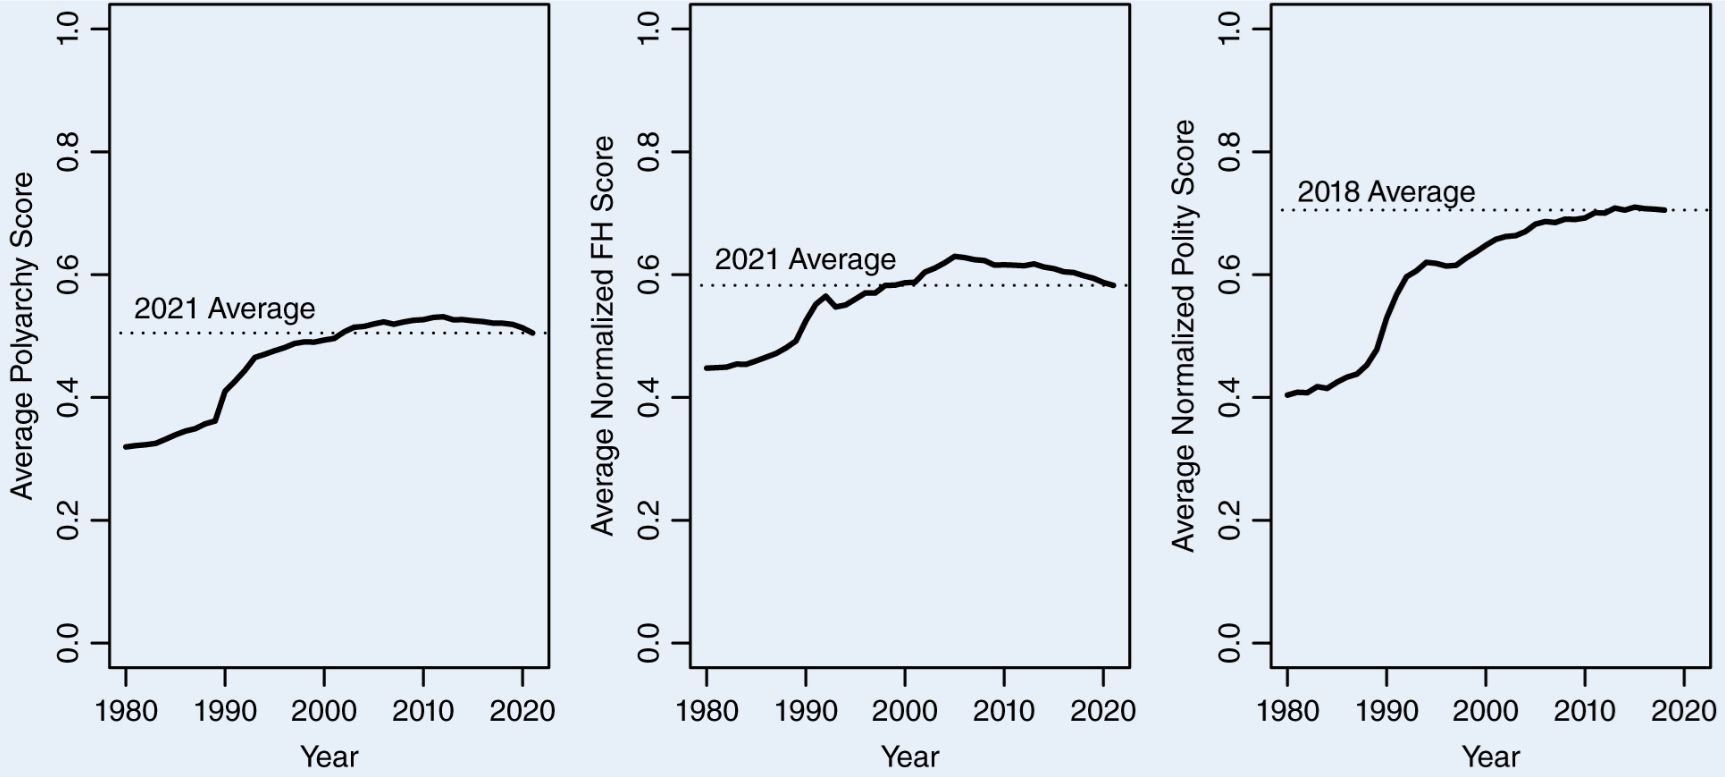
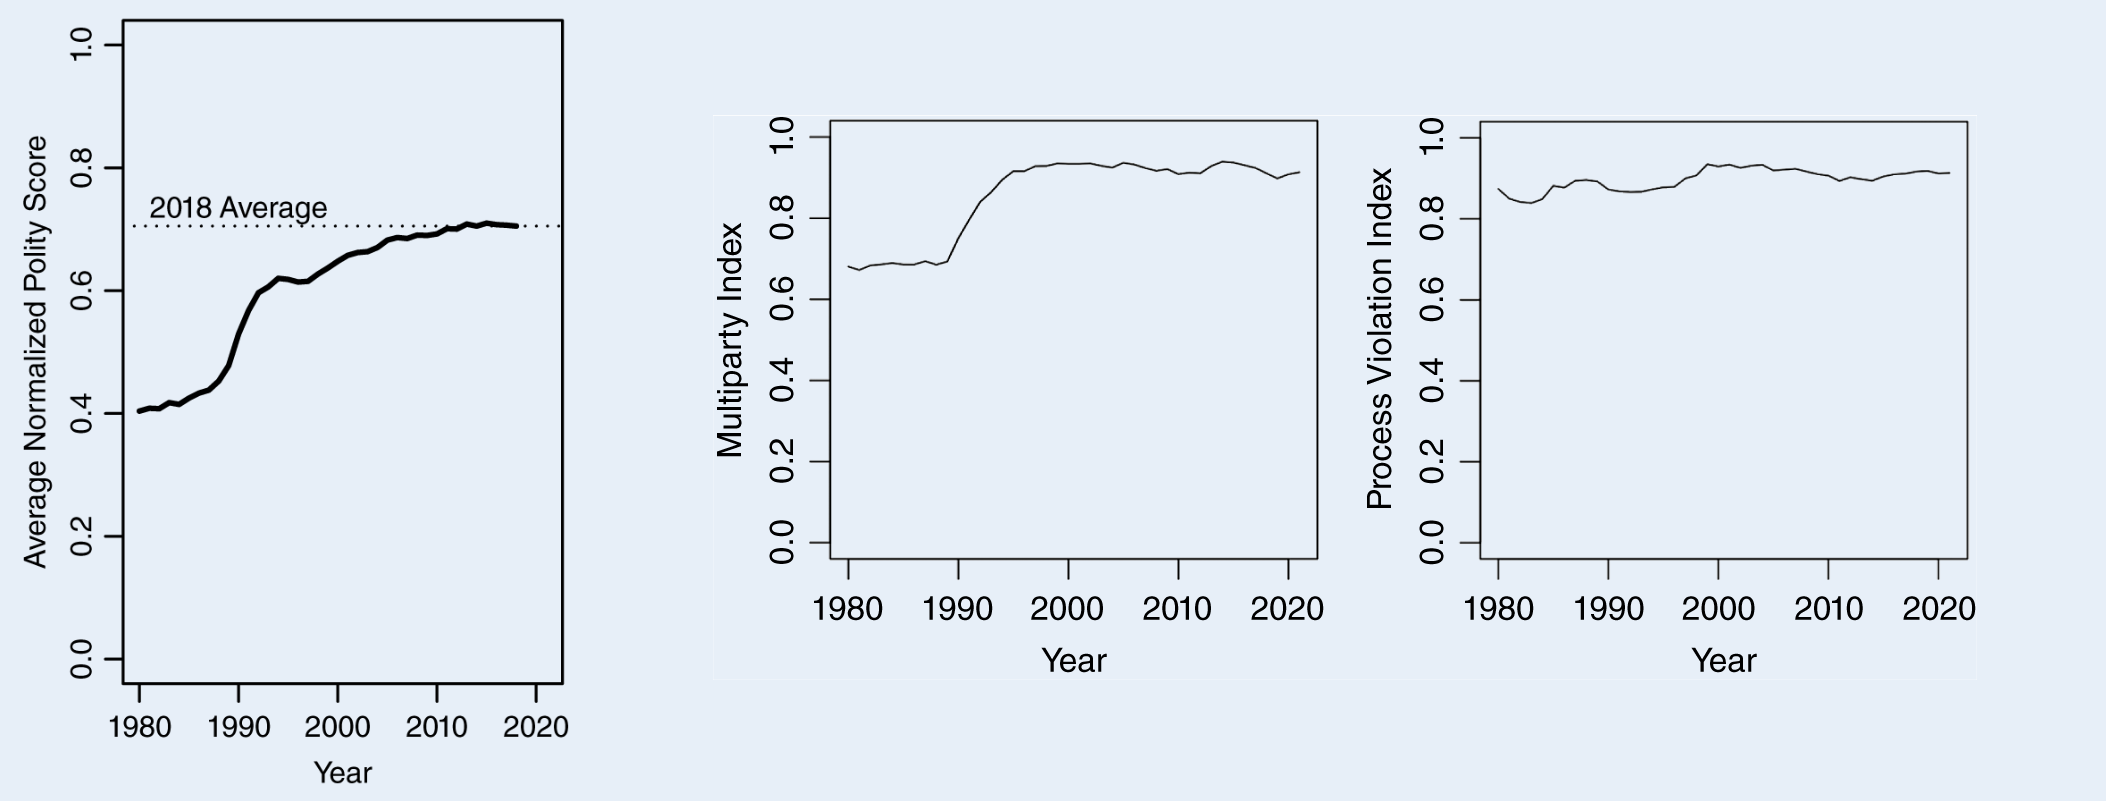
Built site for gh-pages

diff --git a/slides/videos-stata/bar-hist-stata.html b/slides/videos-stata/bar-hist-stata.html
@@ -124,7 +124,10 @@ ul.task-list li input[type="checkbox"] {
   <li><a href="#step-4-select-the-top-portion-of-the-do-file-and-click-execute-do" id="toc-step-4-select-the-top-portion-of-the-do-file-and-click-execute-do" class="nav-link" data-scroll-target="#step-4-select-the-top-portion-of-the-do-file-and-click-execute-do">Step 4: Select the top portion of the do file and click “execute (do)”</a></li>
   <li><a href="#step-5-check-if-it-has-worked-and-save-your-do-file" id="toc-step-5-check-if-it-has-worked-and-save-your-do-file" class="nav-link" data-scroll-target="#step-5-check-if-it-has-worked-and-save-your-do-file">Step 5: Check if it has worked and save your do-file</a></li>
   <li><a href="#step-6-read-through-the-do-file-comments-and-execute-the-commands" id="toc-step-6-read-through-the-do-file-comments-and-execute-the-commands" class="nav-link" data-scroll-target="#step-6-read-through-the-do-file-comments-and-execute-the-commands">Step 6: Read through the do-file comments and execute the commands</a></li>
-  <li><a href="#your-turn-find-additional-variables-to-summarise" id="toc-your-turn-find-additional-variables-to-summarise" class="nav-link" data-scroll-target="#your-turn-find-additional-variables-to-summarise">Your turn: Find additional variables to summarise</a></li>
+  <li><a href="#your-turn-find-additional-variables-to-visualise" id="toc-your-turn-find-additional-variables-to-visualise" class="nav-link" data-scroll-target="#your-turn-find-additional-variables-to-visualise">Your turn: Find additional variables to visualise</a></li>
+  <li><a href="#got-tired-of-the-bes-theres-more" id="toc-got-tired-of-the-bes-theres-more" class="nav-link" data-scroll-target="#got-tired-of-the-bes-theres-more">Got tired of the BES? There’s more!</a></li>
+  <li><a href="#still-bored-theres-even-more" id="toc-still-bored-theres-even-more" class="nav-link" data-scroll-target="#still-bored-theres-even-more">Still bored? There’s even more!</a></li>
+  <li><a href="#fancy-a-challenge" id="toc-fancy-a-challenge" class="nav-link" data-scroll-target="#fancy-a-challenge">Fancy a challenge?</a></li>
   <li><a href="#recap" id="toc-recap" class="nav-link" data-scroll-target="#recap">Recap</a></li>
   </ul></li>
   </ul>
@@ -141,29 +144,35 @@ ul.task-list li input[type="checkbox"] {
 <hr>
 <section id="youll-learn-to" class="level2">
 <h2 class="anchored" data-anchor-id="youll-learn-to">You’ll learn to</h2>
+<div class="nonincremental">
 <ul>
 <li>Create <strong>bar charts</strong> and <strong>histograms</strong> in Stata and use them to describe distributions.</li>
 </ul>
+</div>
 <hr>
 </section>
 <section id="step-1-download-the-british-election-study-dataset-from-our-shared-folder" class="level2">
 <h2 class="anchored" data-anchor-id="step-1-download-the-british-election-study-dataset-from-our-shared-folder">Step 1: Download the British Election Study dataset from our shared folder</h2>
+<div class="nonincremental">
 <ul>
 <li>Access our <a href="https://emckclac-my.sharepoint.com/:f:/g/personal/k2588471_kcl_ac_uk/IgCj43BodyKITIiLw6bolCpYAU89x3IK0A2GlVY05aN29UE">Shared Project Folder</a></li>
 <li>Click on <code>data-raw</code></li>
 <li>Download <code>British_Election_Study_2024.dta</code></li>
 <li>Save it into the <code>data-raw</code> folder on your computer</li>
 </ul>
+</div>
 <hr>
 </section>
 <section id="step-2-download-the-companion-do-file-for-this-activity" class="level2">
 <h2 class="anchored" data-anchor-id="step-2-download-the-companion-do-file-for-this-activity">Step 2: Download the companion do-file for this activity</h2>
+<div class="nonincremental">
 <ul>
 <li>Access our <a href="https://emckclac-my.sharepoint.com/:f:/g/personal/k2588471_kcl_ac_uk/IgCj43BodyKITIiLw6bolCpYAU89x3IK0A2GlVY05aN29UE">Shared Project Folder</a></li>
 <li>Click on <code>do</code></li>
 <li>Download <code>visualise-bes.do</code></li>
 <li>Save it into the <code>do</code> folder on your computer</li>
 </ul>
+</div>
 <hr>
 </section>
 <section id="step-3-insert-the-path-to-your-folder-on-your-computer" class="level2">
@@ -221,14 +230,61 @@ ul.task-list li input[type="checkbox"] {
 </div>
 <hr>
 </section>
-<section id="your-turn-find-additional-variables-to-summarise" class="level2">
-<h2 class="anchored" data-anchor-id="your-turn-find-additional-variables-to-summarise">Your turn: Find additional variables to summarise</h2>
+<section id="your-turn-find-additional-variables-to-visualise" class="level2">
+<h2 class="anchored" data-anchor-id="your-turn-find-additional-variables-to-visualise">Your turn: Find additional variables to visualise</h2>
 <div class="nonincremental">
 <ul>
 <li><code>hist</code> gives us histograms.</li>
 <li><code>graph hbar (count), over()</code> gives us the frequency bar charts.</li>
 <li>Explore the BES data and codebook to look for additional variables to visualise.</li>
 </ul>
+</div>
+<hr>
+</section>
+<section id="got-tired-of-the-bes-theres-more" class="level2">
+<h2 class="anchored" data-anchor-id="got-tired-of-the-bes-theres-more">Got tired of the BES? There’s more!</h2>
+<div class="nonincremental">
+<ul>
+<li><code>histogram-gdp.do</code> has the code for this histogram.</li>
+<li>Be sure to download <code>Quality_of_Government_2026.dta</code> first.</li>
+<li>Explore the <strong>Quality of Government</strong> dataset using the codebook.</li>
+</ul>
+<div class="quarto-figure quarto-figure-center">
+<figure class="figure">
+<p><img src="../../assets/gdp_hist.jpg" class="img-fluid quarto-figure quarto-figure-center figure-img" style="width:67.0%" data-fig-cap=""></p>
+</figure>
+</div>
+</div>
+<hr>
+</section>
+<section id="still-bored-theres-even-more" class="level2">
+<h2 class="anchored" data-anchor-id="still-bored-theres-even-more">Still bored? There’s even more!</h2>
+<div class="nonincremental">
+<ul>
+<li><code>histogram-nss.do</code> has the code for this histogram.</li>
+<li>Be sure to download <code>National_Student_Survey_2025.dta</code> first.</li>
+<li>Explore the <strong>National Student Survey</strong> dataset using the codebook.</li>
+</ul>
+<div class="quarto-figure quarto-figure-center">
+<figure class="figure">
+<p><img src="../../assets/nss_hist.jpg" class="img-fluid quarto-figure quarto-figure-center figure-img" style="width:67.0%" data-fig-cap=""></p>
+</figure>
+</div>
+</div>
+<hr>
+</section>
+<section id="fancy-a-challenge" class="level2">
+<h2 class="anchored" data-anchor-id="fancy-a-challenge">Fancy a challenge?</h2>
+<div class="nonincremental">
+<ul>
+<li>This histogram was made using the <strong>Brexit</strong> dataset.</li>
+<li>Can you reproduce it?</li>
+</ul>
+<div class="quarto-figure quarto-figure-center">
+<figure class="figure">
+<p><img src="../../assets/brexit_hist.jpg" class="img-fluid quarto-figure quarto-figure-center figure-img" style="width:67.0%" data-fig-cap=""></p>
+</figure>
+</div>
 </div>
 <hr>
 </section>

diff --git a/slides/lectures/measurement-lecture.html b/slides/lectures/measurement-lecture.html
@@ -127,13 +127,14 @@ ul.task-list li input[type="checkbox"] {
   <li><a href="#varieties-of-democracy-v-dem" id="toc-varieties-of-democracy-v-dem" class="nav-link" data-scroll-target="#varieties-of-democracy-v-dem">Varieties of Democracy (V-DEM)</a></li>
   <li><a href="#the-v-dem-world-map" id="toc-the-v-dem-world-map" class="nav-link" data-scroll-target="#the-v-dem-world-map">The V-DEM world map</a></li>
   <li><a href="#is-democracy-backsliding-according-to-v-dem-yes" id="toc-is-democracy-backsliding-according-to-v-dem-yes" class="nav-link" data-scroll-target="#is-democracy-backsliding-according-to-v-dem-yes">Is democracy backsliding? According to V-DEM, yes!</a></li>
-  <li><a href="#is-democracy-backsliding-according-to-other-measurements-no" id="toc-is-democracy-backsliding-according-to-other-measurements-no" class="nav-link" data-scroll-target="#is-democracy-backsliding-according-to-other-measurements-no">Is democracy backsliding? According to other measurements, no!</a></li>
+  <li><a href="#is-democracy-backsliding-according-to-other-indicators-no" id="toc-is-democracy-backsliding-according-to-other-indicators-no" class="nav-link" data-scroll-target="#is-democracy-backsliding-according-to-other-indicators-no">Is democracy backsliding? According to other indicators, no!</a></li>
   <li><a href="#the-critique-little-meng-2024-on-v-dem" id="toc-the-critique-little-meng-2024-on-v-dem" class="nav-link" data-scroll-target="#the-critique-little-meng-2024-on-v-dem">The critique: Little &amp; Meng (2024) on V-Dem</a></li>
   <li><a href="#what-does-their-alternative-look-like" id="toc-what-does-their-alternative-look-like" class="nav-link" data-scroll-target="#what-does-their-alternative-look-like">What does their alternative look like?</a></li>
   <li><a href="#the-counter-critique-v-dems-side" id="toc-the-counter-critique-v-dems-side" class="nav-link" data-scroll-target="#the-counter-critique-v-dems-side">The counter-critique: V-DEM’s side</a></li>
   <li><a href="#group-activity-how-to-measure-democracy" id="toc-group-activity-how-to-measure-democracy" class="nav-link" data-scroll-target="#group-activity-how-to-measure-democracy">Group activity: How to measure democracy?</a></li>
   <li><a href="#guiding-questions-for-discussion" id="toc-guiding-questions-for-discussion" class="nav-link" data-scroll-target="#guiding-questions-for-discussion">Guiding questions for discussion</a></li>
   <li><a href="#share-your-thoughts" id="toc-share-your-thoughts" class="nav-link" data-scroll-target="#share-your-thoughts">Share your thoughts</a></li>
+  <li><a href="#dig-deeper" id="toc-dig-deeper" class="nav-link" data-scroll-target="#dig-deeper">Dig Deeper</a></li>
   <li><a href="#why-this-matters" id="toc-why-this-matters" class="nav-link" data-scroll-target="#why-this-matters">Why this matters</a></li>
   </ul>
 <div class="quarto-alternate-formats"><h2>Other Formats</h2><ul><li><a href="measurement-lecture-slides.html"><i class="bi bi-file-slides"></i>RevealJS</a></li></ul></div></nav>
@@ -272,8 +273,8 @@ ul.task-list li input[type="checkbox"] {
 <p><a href="https://www.v-dem.net/documents/60/V-dem-dr__2025_lowres.pdf">Source</a></p>
 <hr>
 </section>
-<section id="is-democracy-backsliding-according-to-other-measurements-no" class="level2">
-<h2 class="anchored" data-anchor-id="is-democracy-backsliding-according-to-other-measurements-no">Is democracy backsliding? According to other measurements, no!</h2>
+<section id="is-democracy-backsliding-according-to-other-indicators-no" class="level2">
+<h2 class="anchored" data-anchor-id="is-democracy-backsliding-according-to-other-indicators-no">Is democracy backsliding? According to other indicators, no!</h2>
 <div class="quarto-figure quarto-figure-center">
 <figure class="figure">
 <p><img src="../../assets/others-trend.png" class="img-fluid quarto-figure quarto-figure-center figure-img" style="width:80.0%" data-fig-cap=""></p>
@@ -338,6 +339,22 @@ ul.task-list li input[type="checkbox"] {
 <div class="quarto-figure quarto-figure-center">
 <figure class="figure">
 <p><img src="../../assets/mentimeter_qr_code_democracy.png" class="img-fluid quarto-figure quarto-figure-center figure-img" style="width:50.0%" data-fig-cap=""></p>
+</figure>
+</div>
+<hr>
+</section>
+<section id="dig-deeper" class="level2">
+<h2 class="anchored" data-anchor-id="dig-deeper">Dig Deeper</h2>
+<ul>
+<li><p><a href="https://www.ft.com/content/b474855e-66b0-4e6e-9b73-7e252bd88938">How steep is Trump’s democratic backsliding?</a></p>
+<ul>
+<li>Financial Times, 31 Jan 2026 (Access with your King’s email account).</li>
+</ul></li>
+<li><p><a href="https://docs.google.com/document/d/e/2PACX-1vTNz8J13MV_ZLQ8BT-AsRNTn4lADHidb3KRYpuQ7ZiA895SgDGwz2PaCi3KQeHpEdjcOMUl4bVs6qNn/pub">Methodology</a> reviewed by Anne Meng.</p></li>
+</ul>
+<div class="quarto-figure quarto-figure-center">
+<figure class="figure">
+<p><img src="../../assets/usa-backsliding.png" class="img-fluid quarto-figure quarto-figure-center figure-img" style="width:67.0%" data-fig-cap=""></p>
 </figure>
 </div>
 <hr>

diff --git a/slides/videos-stata/bar-hist-stata-slides.html b/slides/videos-stata/bar-hist-stata-slides.html
@@ -134,25 +134,25 @@
 <section id="youll-learn-to" class="slide level2">
 <h2>You’ll learn to</h2>
 <ul>
-<li class="fragment">Create <strong>bar charts</strong> and <strong>histograms</strong> in Stata and use them to describe distributions.</li>
+<li>Create <strong>bar charts</strong> and <strong>histograms</strong> in Stata and use them to describe distributions.</li>
 </ul>
 </section>
 <section id="step-1-download-the-british-election-study-dataset-from-our-shared-folder" class="slide level2">
 <h2>Step 1: Download the British Election Study dataset from our shared folder</h2>
 <ul>
-<li class="fragment">Access our <a href="https://emckclac-my.sharepoint.com/:f:/g/personal/k2588471_kcl_ac_uk/IgCj43BodyKITIiLw6bolCpYAU89x3IK0A2GlVY05aN29UE">Shared Project Folder</a></li>
-<li class="fragment">Click on <code>data-raw</code></li>
-<li class="fragment">Download <code>British_Election_Study_2024.dta</code></li>
-<li class="fragment">Save it into the <code>data-raw</code> folder on your computer</li>
+<li>Access our <a href="https://emckclac-my.sharepoint.com/:f:/g/personal/k2588471_kcl_ac_uk/IgCj43BodyKITIiLw6bolCpYAU89x3IK0A2GlVY05aN29UE">Shared Project Folder</a></li>
+<li>Click on <code>data-raw</code></li>
+<li>Download <code>British_Election_Study_2024.dta</code></li>
+<li>Save it into the <code>data-raw</code> folder on your computer</li>
 </ul>
 </section>
 <section id="step-2-download-the-companion-do-file-for-this-activity" class="slide level2">
 <h2>Step 2: Download the companion do-file for this activity</h2>
 <ul>
-<li class="fragment">Access our <a href="https://emckclac-my.sharepoint.com/:f:/g/personal/k2588471_kcl_ac_uk/IgCj43BodyKITIiLw6bolCpYAU89x3IK0A2GlVY05aN29UE">Shared Project Folder</a></li>
-<li class="fragment">Click on <code>do</code></li>
-<li class="fragment">Download <code>visualise-bes.do</code></li>
-<li class="fragment">Save it into the <code>do</code> folder on your computer</li>
+<li>Access our <a href="https://emckclac-my.sharepoint.com/:f:/g/personal/k2588471_kcl_ac_uk/IgCj43BodyKITIiLw6bolCpYAU89x3IK0A2GlVY05aN29UE">Shared Project Folder</a></li>
+<li>Click on <code>do</code></li>
+<li>Download <code>visualise-bes.do</code></li>
+<li>Save it into the <code>do</code> folder on your computer</li>
 </ul>
 </section>
 <section id="step-3-insert-the-path-to-your-folder-on-your-computer" class="slide level2">
@@ -182,14 +182,40 @@
 </ul>
 
 <img data-src="../../assets/stata-do-age2.png" class="quarto-figure quarto-figure-center r-stretch"></section>
-<section id="your-turn-find-additional-variables-to-summarise" class="slide level2">
-<h2>Your turn: Find additional variables to summarise</h2>
+<section id="your-turn-find-additional-variables-to-visualise" class="slide level2">
+<h2>Your turn: Find additional variables to visualise</h2>
 <ul>
 <li><code>hist</code> gives us histograms.</li>
 <li><code>graph hbar (count), over()</code> gives us the frequency bar charts.</li>
 <li>Explore the BES data and codebook to look for additional variables to visualise.</li>
 </ul>
 </section>
+<section id="got-tired-of-the-bes-theres-more" class="slide level2">
+<h2>Got tired of the BES? There’s more!</h2>
+<ul>
+<li><code>histogram-gdp.do</code> has the code for this histogram.</li>
+<li>Be sure to download <code>Quality_of_Government_2026.dta</code> first.</li>
+<li>Explore the <strong>Quality of Government</strong> dataset using the codebook.</li>
+</ul>
+
+<img data-src="../../assets/gdp_hist.jpg" class="quarto-figure quarto-figure-center r-stretch" style="width:67.0%" data-fig-cap=""></section>
+<section id="still-bored-theres-even-more" class="slide level2">
+<h2>Still bored? There’s even more!</h2>
+<ul>
+<li><code>histogram-nss.do</code> has the code for this histogram.</li>
+<li>Be sure to download <code>National_Student_Survey_2025.dta</code> first.</li>
+<li>Explore the <strong>National Student Survey</strong> dataset using the codebook.</li>
+</ul>
+
+<img data-src="../../assets/nss_hist.jpg" class="quarto-figure quarto-figure-center r-stretch" style="width:67.0%" data-fig-cap=""></section>
+<section id="fancy-a-challenge" class="slide level2">
+<h2>Fancy a challenge?</h2>
+<ul>
+<li>This histogram was made using the <strong>Brexit</strong> dataset.</li>
+<li>Can you reproduce it?</li>
+</ul>
+
+<img data-src="../../assets/brexit_hist.jpg" class="quarto-figure quarto-figure-center r-stretch" style="width:67.0%" data-fig-cap=""></section>
 <section id="recap" class="slide level2">
 <h2>Recap</h2>
 <ul>

diff --git a/slides/videos-stata/summary-stata-slides.html b/slides/videos-stata/summary-stata-slides.html
@@ -134,25 +134,25 @@
 <section id="youll-learn-to" class="slide level2">
 <h2>You’ll learn to</h2>
 <ul>
-<li class="fragment">Produce <strong>summary statistics</strong> and <strong>frequency tables</strong> in Stata and interpret what they show.</li>
+<li>Produce <strong>summary statistics</strong> and <strong>frequency tables</strong> in Stata and interpret what they show.</li>
 </ul>
 </section>
 <section id="step-1-download-the-british-election-study-dataset-from-our-shared-folder" class="slide level2">
 <h2>Step 1: Download the British Election Study dataset from our shared folder</h2>
 <ul>
-<li class="fragment">Access our <a href="https://emckclac-my.sharepoint.com/:f:/g/personal/k2588471_kcl_ac_uk/IgCj43BodyKITIiLw6bolCpYAU89x3IK0A2GlVY05aN29UE">Shared Project Folder</a></li>
-<li class="fragment">Click on <code>data-raw</code></li>
-<li class="fragment">Download <code>British_Election_Study_2024.dta</code></li>
-<li class="fragment">Save it into the <code>data-raw</code> folder on your computer</li>
+<li>Access our <a href="https://emckclac-my.sharepoint.com/:f:/g/personal/k2588471_kcl_ac_uk/IgCj43BodyKITIiLw6bolCpYAU89x3IK0A2GlVY05aN29UE">Shared Project Folder</a></li>
+<li>Click on <code>data-raw</code></li>
+<li>Download <code>British_Election_Study_2024.dta</code></li>
+<li>Save it into the <code>data-raw</code> folder on your computer</li>
 </ul>
 </section>
 <section id="step-2-download-the-companion-do-file-for-this-activity" class="slide level2">
 <h2>Step 2: Download the companion do-file for this activity</h2>
 <ul>
-<li class="fragment">Access our <a href="https://emckclac-my.sharepoint.com/:f:/g/personal/k2588471_kcl_ac_uk/IgCj43BodyKITIiLw6bolCpYAU89x3IK0A2GlVY05aN29UE">Shared Project Folder</a></li>
-<li class="fragment">Click on <code>do</code></li>
-<li class="fragment">Download <code>summarise-bes.do</code></li>
-<li class="fragment">Save it into the <code>do</code> folder on your computer</li>
+<li>Access our <a href="https://emckclac-my.sharepoint.com/:f:/g/personal/k2588471_kcl_ac_uk/IgCj43BodyKITIiLw6bolCpYAU89x3IK0A2GlVY05aN29UE">Shared Project Folder</a></li>
+<li>Click on <code>do</code></li>
+<li>Download <code>summarise-bes.do</code></li>
+<li>Save it into the <code>do</code> folder on your computer</li>
 </ul>
 </section>
 <section id="step-3-insert-the-path-to-your-folder-on-your-computer" class="slide level2">

diff --git a/slides/lectures/measurement-lecture-slides.html b/slides/lectures/measurement-lecture-slides.html
@@ -216,8 +216,8 @@ Leonardo Falabella
 
 <img data-src="../../assets/vdem-trend.png" class="quarto-figure quarto-figure-center r-stretch" style="width:80.0%" data-fig-cap=""><p><a href="https://www.v-dem.net/documents/60/V-dem-dr__2025_lowres.pdf">Source</a></p>
 </section>
-<section id="is-democracy-backsliding-according-to-other-measurements-no" class="slide level2">
-<h2>Is democracy backsliding? According to other measurements, no!</h2>
+<section id="is-democracy-backsliding-according-to-other-indicators-no" class="slide level2">
+<h2>Is democracy backsliding? According to other indicators, no!</h2>
 
 <img data-src="../../assets/others-trend.png" class="quarto-figure quarto-figure-center r-stretch" style="width:80.0%" data-fig-cap=""><p><a href="https://www.cambridge.org/core/journals/ps-political-science-and-politics/article/measuring-democratic-backsliding/9EE2044CDA598BD815349912E61189D8">Source</a></p>
 </section>
@@ -271,6 +271,17 @@ Leonardo Falabella
 </ul>
 
 <img data-src="../../assets/mentimeter_qr_code_democracy.png" class="quarto-figure quarto-figure-center r-stretch" style="width:50.0%" data-fig-cap=""></section>
+<section id="dig-deeper" class="slide level2">
+<h2>Dig Deeper</h2>
+<ul>
+<li><p><a href="https://www.ft.com/content/b474855e-66b0-4e6e-9b73-7e252bd88938">How steep is Trump’s democratic backsliding?</a></p>
+<ul>
+<li>Financial Times, 31 Jan 2026 (Access with your King’s email account).</li>
+</ul></li>
+<li><p><a href="https://docs.google.com/document/d/e/2PACX-1vTNz8J13MV_ZLQ8BT-AsRNTn4lADHidb3KRYpuQ7ZiA895SgDGwz2PaCi3KQeHpEdjcOMUl4bVs6qNn/pub">Methodology</a> reviewed by Anne Meng.</p></li>
+</ul>
+
+<img data-src="../../assets/usa-backsliding.png" class="quarto-figure quarto-figure-center r-stretch" style="width:67.0%" data-fig-cap=""></section>
 <section id="why-this-matters" class="slide level2">
 <h2>Why this matters</h2>
 <ul>

diff --git a/slides/videos-stata/summary-stata.html b/slides/videos-stata/summary-stata.html
@@ -141,29 +141,35 @@ ul.task-list li input[type="checkbox"] {
 <hr>
 <section id="youll-learn-to" class="level2">
 <h2 class="anchored" data-anchor-id="youll-learn-to">You’ll learn to</h2>
+<div class="nonincremental">
 <ul>
 <li>Produce <strong>summary statistics</strong> and <strong>frequency tables</strong> in Stata and interpret what they show.</li>
 </ul>
+</div>
 <hr>
 </section>
 <section id="step-1-download-the-british-election-study-dataset-from-our-shared-folder" class="level2">
 <h2 class="anchored" data-anchor-id="step-1-download-the-british-election-study-dataset-from-our-shared-folder">Step 1: Download the British Election Study dataset from our shared folder</h2>
+<div class="nonincremental">
 <ul>
 <li>Access our <a href="https://emckclac-my.sharepoint.com/:f:/g/personal/k2588471_kcl_ac_uk/IgCj43BodyKITIiLw6bolCpYAU89x3IK0A2GlVY05aN29UE">Shared Project Folder</a></li>
 <li>Click on <code>data-raw</code></li>
 <li>Download <code>British_Election_Study_2024.dta</code></li>
 <li>Save it into the <code>data-raw</code> folder on your computer</li>
 </ul>
+</div>
 <hr>
 </section>
 <section id="step-2-download-the-companion-do-file-for-this-activity" class="level2">
 <h2 class="anchored" data-anchor-id="step-2-download-the-companion-do-file-for-this-activity">Step 2: Download the companion do-file for this activity</h2>
+<div class="nonincremental">
 <ul>
 <li>Access our <a href="https://emckclac-my.sharepoint.com/:f:/g/personal/k2588471_kcl_ac_uk/IgCj43BodyKITIiLw6bolCpYAU89x3IK0A2GlVY05aN29UE">Shared Project Folder</a></li>
 <li>Click on <code>do</code></li>
 <li>Download <code>summarise-bes.do</code></li>
 <li>Save it into the <code>do</code> folder on your computer</li>
 </ul>
+</div>
 <hr>
 </section>
 <section id="step-3-insert-the-path-to-your-folder-on-your-computer" class="level2">
